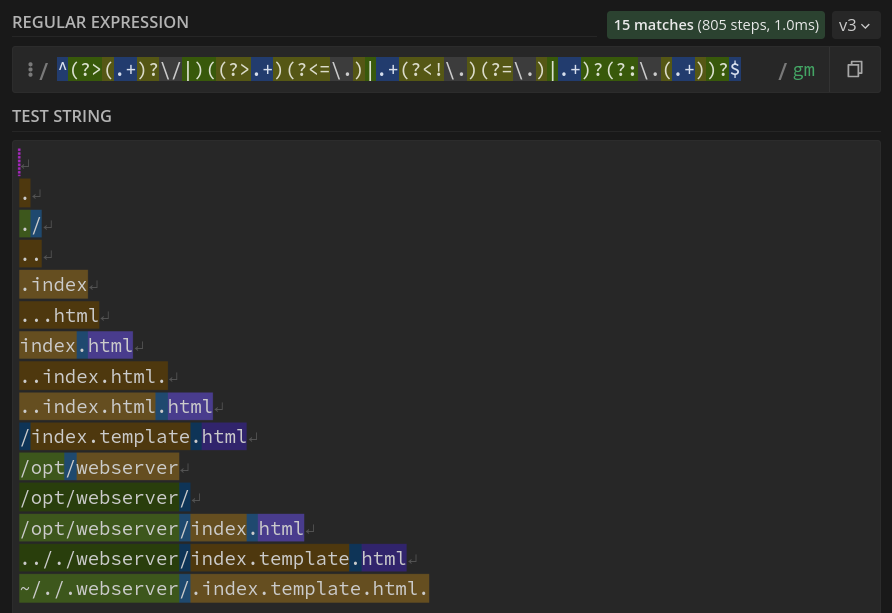
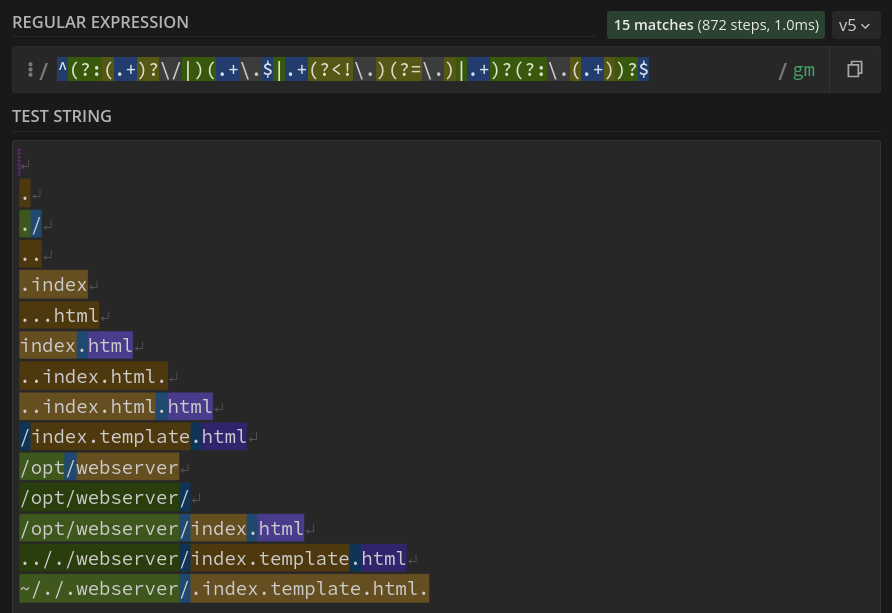
support javascript engine

Changed region(s): [[0.2422, 0.093, 0.8475, 0.155], [0.787, 0.031, 0.8173, 0.062]]

diff --git a/README.md b/README.md
@@ -1,12 +1,13 @@
 ## About
 
-`^(?>(.+)?\/|)((?>.+)(?<=\.)|.+(?<!\.)(?=\.)|.+)?(?:\.(.+))?$`
+`^(?:(.+)?\/|)(.+\.$|.+(?<!\.)(?=\.)|.+)?(?:\.(.+))?$`
 
 Regex that cuts a resource path into its components.
 - Robust: handles edge cases (screenshot).
-- Efficient: 15~90 steps, long and short paths ~equal time.
+- Performance: 20~100 steps, long and short paths ~equal time.
+- Support: made to work with ECMAScript(JavaScript) and most other engines.
 
-https://regex101.com/r/8aBZDd/4
+https://regex101.com/r/8aBZDd/5
 <div>
     <img src="screenshots/001.png" alt="screenshot" width="auto" height="auto">
 </div>
